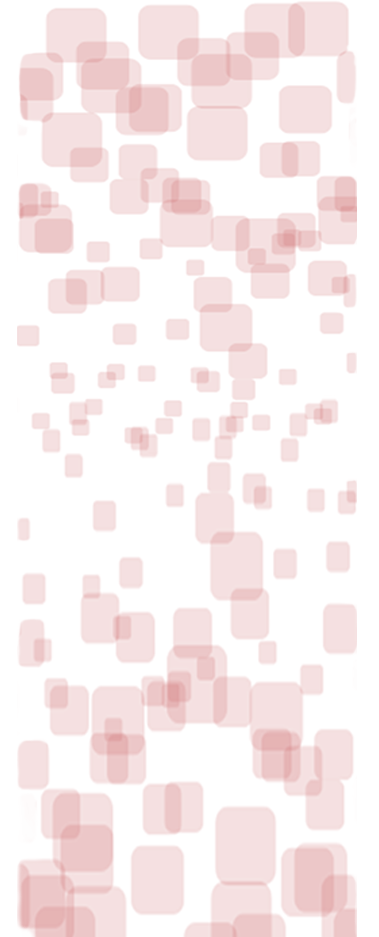
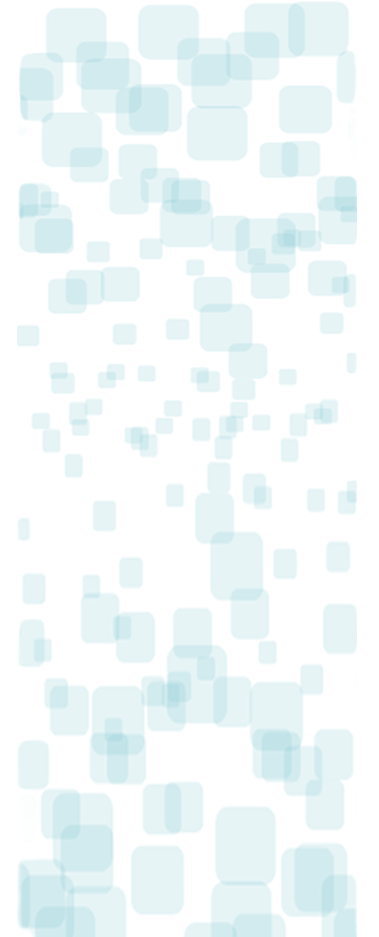
fixes

diff --git a/index.html b/index.html
@@ -315,16 +315,16 @@
                   <!-- Wrapper for slides -->
                   <div class="carousel-inner">
                     <div class="item active">
-                      <img src="https://www.movichhotels.com/PublishingImages/ciudades/bogota/buro26/reuniones/eventos1.jpg" alt="..."><div class="carousel-caption"></div>
+                      <img src="https://www.movichhotels.com/PublishingImages/ciudades/bogota/buro26/recorrido-visual/Servicio%20reuniones/reunion4.jpg" alt="..."><div class="carousel-caption"></div>
                     </div>
                     <div class="item acrive">
-                      <img src="https://www.movichhotels.com/PublishingImages/ciudades/bogota/buro26/reuniones/eventos1.jpg" alt="..."><div class="carousel-caption"></div>
+                      <img src="https://www.movichhotels.com/PublishingImages/ciudades/bogota/buro26/recorrido-visual/Servicio%20reuniones/reunion3.jpg" alt="..."><div class="carousel-caption"></div>
                     </div>
                     <div class="item">
-                      <img src="https://www.movichhotels.com/PublishingImages/ciudades/bogota/buro26/reuniones/eventos1.jpg" alt="..."><div class="carousel-caption"></div>
+                      <img src="https://www.movichhotels.com/PublishingImages/ciudades/bogota/buro26/recorrido-visual/Servicio%20reuniones/reunion1.jpg" alt="..."><div class="carousel-caption"></div>
                     </div>
                     <div class="item">
-                      <img src="https://www.movichhotels.com/PublishingImages/ciudades/bogota/buro26/reuniones/eventos1.jpg" alt="..."><div class="carousel-caption"></div>
+                      <img src="https://www.movichhotels.com/PublishingImages/ciudades/bogota/buro26/recorrido-visual/Servicio%20reuniones/reunion7.jpg" alt="..."><div class="carousel-caption"></div>
                     </div>
                   </div>
                   <!-- Controls -->
@@ -339,13 +339,35 @@
 
                 <div>
                   <div>
-                    <h4>EXPERIENCIAS INDESCRIPTIBLES</h4>
+                    <h4>REUNIONES Y EVENTOS</h4>
                   </div>
                 </div>
                 <div>
                   <div>
                     <div>
-                      <p id="txtContenido">Nuestra misión es y será construir el entorno perfecto para poder fabricar un momento inolvidable. Para ello, además de la infraestructura, contamos con un equipo especializado que está en capacidad de asesorarle y orientarle acerca de cada detalle que permitirá obtener el resultado propuesto. Contamos con capacidad real para planear, organizar y atender:</p>
+                      <div id="pageTitle2">
+                        <h2>&nbsp;</h2>
+                      </div>
+                      <div id="encabezado2">
+                        <div data-name="WebPartZone">
+                          <div>
+                            <div>
+                              <div id="MSOZoneCell_WebPartWPQ">
+                                <div>
+                                  <div id="WebPartWPQ5_ChromeTitle2"><span title="Editor de contenido - Permite a los autores escribir contenido de texto enriquecido." id="WebPartTitleWPQ"> </span></div>
+                                  <div webpartid="3e7f0688-2ef3-4637-a9f3-5d2f31bd88e3" haspers="false" id="WebPartWPQ" width="100%" allowdelete="false">
+                                    <div>
+                                      <p><strong>¿HA ESCUCHADO QUE HACER EVENTOS CON MOVICH ES DIFERENTE?</strong>
+                                      <strong>COMPRUEBE POR QUE MUCHAS EMPRESAS NOS PREFIEREN.</strong></p>
+                                    </div>
+                                  </div>
+                                </div>
+                              </div>
+                            </div>
+                          </div>
+                        </div>
+                      </div>
+                      <p id="txtContenido">&nbsp;</p>
                       <ul>
                         <li>Seminarios</li>
                         <li>Congresos</li>
@@ -914,6 +936,13 @@
         <script type="text/javascript">
 		function menu() {
 			window.open("http://www.biohotelcolombia.com/wp-content/uploads/2016/09/MENU-GREENPIECE-es-JUNIO21.pdf", "_blank", "location=no"); }
+ 			localStorage.setItem("mem_licencia", "5");
+			localStorage.setItem("mem_alias", "Movich Buro 26");
+			localStorage.setItem("nombredb", "MARIA BERENICE LARA LAURSEN");
+			localStorage.setItem("roomdb", "601A");
+			localStorage.setItem("foliodb", "007557");
+			localStorage.setItem("salidadb", "18 de Septiembre");
+			localStorage.setItem("llegadadb", "5 de Septiembre");			
 			
             app.initialize();
         </script>

diff --git a/account.html b/account.html
@@ -38,59 +38,7 @@
 <link rel="stylesheet" href="jquery.loader.min.css" /><script src="jquery.loader.min.js"></script> </head>
 <body id="landscape" onLoad="controlsesion(), print_cuenta()">
 
-    <div class="page sideNav">
-        <div class="barTitle"><p class="titulo" id="p_alias">Nombre de Hotel</p></div><!-- se quito porque casusa conflicto<p class="titulo"><span></span></p>-->
-            <script>var p_alias = localStorage.getItem("mem_alias");$("#p_alias").html(p_alias);</script>
-        <div id="navPrincipal">
-            <div class="col-xs-4">
-                <a href="hotelLog.html" data-ajax="false"><button class="btnPrincipal txtBtnPrincipal">
-                    <span class="fa fa-h-square fa-2x icoBtnPrincipal"></span><p>Info</p>
-                </button></a>
-            </div>
-            <div class="col-xs-4">
-                <a href="request.html" data-ajax="false"><button class="btnPrincipal txtBtnPrincipal">
-                    <span class="fa fa-headphones fa-2x icoBtnPrincipal"></span><p>Request</p>
-                </button></a>
-            </div>
-            <div class="col-xs-4">
-                <a href="tools.html" data-ajax="false"><button class="btnPrincipal txtBtnPrincipal">
-                    <span class="fa fa-plane fa-2x icoBtnPrincipal"></span><p>Tools</p>
-                </button></a>
-            </div>
-            <div class="col-xs-4">
-                <a href="http://wifienter.net/app/mapas/index.html" data-ajax="false"><button class="btnPrincipal txtBtnPrincipal">
-                    <span class="fa fa-bullseye fa-2x icoBtnPrincipal"></span><p>Remote</p>
-                </button></a>
-            </div>
-            <div class="col-xs-4">
-                <a href="account.html" data-ajax="false"><button class="btnPrincipal txtBtnPrincipal">
-                    <span class="fa fa-usd fa-2x icoBtnPrincipal"></span><p>Account</p>
-                </button></a>
-            </div>
-            <div class="col-xs-4">
-                <a href="settings.html" data-ajax="false"><button class="btnPrincipal txtBtnPrincipal">
-                    <span class="fa fa-cogs fa-2x icoBtnPrincipal"></span><p>Settings</p>
-                </button></a>
-            </div>
-        </div>
-        <div class="clearfix"></div>
-        <div id="infoUser" class="area">
-            <!--<p class="txt">Welcome</p>
-            <button class="btnCheckIn"><span class="checkIn">Check In</span></button>-->
-            
-            <!--Se coloco información de usuario que antes no estaba-->
-                <div class="txt">Welcome</div>
-                <button class="btnCheckIn" onClick=" clearall();"><span class="checkIn">Check Out</span></button>
-                <div id="p_nombre" class="bgUsuarioLog nombreUsuarioLog line"><span>Nombre usuario</span></div>
-            <script>var p_nom = localStorage.getItem("nombredb");$("#p_nombre span").html(p_nom);</script>
-                <div id="p_llegada" class="datosUsuario line">Check In:<span></span></div>
-                <script>var p_lleg = localStorage.getItem("llegadadb");$("#p_llegada span").html(p_lleg);</script>
-                <div id="p_salida" class="datosUsuario line">Check Out: <span></span></div>
-                <script>var p_sal = localStorage.getItem("salidadb");$("#p_salida span").html(p_sal);</script>
-                <div id="p_room" class="datosUsuario line">Room: <span></span></div>
-                <script>var p_room = localStorage.getItem("roomdb");$("#p_room span").html(p_room);</script>
-            </div>
-        </div>
+   
         <!--Se finaliza la información de usuario-->
         </div>
         <div class="brand"><img src="images/wifiLogo.png" alt="Wifi" height="22px" width="auto"></div>

diff --git a/css/style.css b/css/style.css
@@ -187,12 +187,12 @@ button.btnIntro{
     padding-bottom:.6em !important;
     
     background: rgb(153,0,0); /* Old browsers */
-    background: -moz-linear-gradient(top,  rgba(153,0,0,1) 49%, rgba(109,0,0,1) 100%); /* FF3.6+ */
-    background: -webkit-gradient(linear, left top, left bottom, color-stop(49%,rgba(153,0,0,1)), color-stop(100%,rgba(109,0,0,1))); /* Chrome,Safari4+ */
-    background: -webkit-linear-gradient(top,  rgba(153,0,0,1) 49%,rgba(109,0,0,1) 100%); /* Chrome10+,Safari5.1+ */
-    background: -o-linear-gradient(top,  rgba(153,0,0,1) 49%,rgba(109,0,0,1) 100%); /* Opera 11.10+ */
-    background: -ms-linear-gradient(top,  rgba(153,0,0,1) 49%,rgba(109,0,0,1) 100%); /* IE10+ */
-    background: linear-gradient(to bottom,  rgba(153,0,0,1) 49%,rgba(109,0,0,1) 100%); /* W3C */
+    background: -moz-linear-gradient(top,  rgb(31, 179, 187) 49%, rgba(109,0,0,1) 100%); /* FF3.6+ */
+    background: -webkit-gradient(linear, left top, left bottom, color-stop(49%,rgb(31, 179, 187)), color-stop(100%,rgba(109,0,0,1))); /* Chrome,Safari4+ */
+    background: -webkit-linear-gradient(top,  rgb(31, 179, 187) 49%,rgba(109,0,0,1) 100%); /* Chrome10+,Safari5.1+ */
+    background: -o-linear-gradient(top,  rgb(31, 179, 187) 49%,rgba(109,0,0,1) 100%); /* Opera 11.10+ */
+    background: -ms-linear-gradient(top,  rgb(31, 179, 187) 49%,rgba(109,0,0,1) 100%); /* IE10+ */
+    background: linear-gradient(to bottom,  rgb(31, 179, 187) 49%,rgba(109,0,0,1) 100%); /* W3C */
     filter: progid:DXImageTransform.Microsoft.gradient( startColorstr='#990000', endColorstr='#6d0000',GradientType=0 ); /* IE6-9 */
 
 }
@@ -370,7 +370,7 @@ button.btnIntro{
     padding-right: 10px;
 }
 
-.barTitle{ background: rgba(153,0,0,1); height: 35px;}
+.barTitle{ background: rgb(31, 179, 187); height: 35px;}
 .titulo{color: #ffffff; text-align: center; font-weight: 300; text-shadow: none; font-size: 1.76em;}
 .btnCheckIn{
     margin-left: 4% !important;
@@ -383,12 +383,12 @@ button.btnIntro{
     -webkit-box-shadow: 2px 3px 5px 2px rgba(0,0,0,0.5);
     box-shadow: 2px 3px 5px 2px rgba(0,0,0,0.5);
     background: rgb(153,0,0); /* Old browsers */
-    background: -moz-linear-gradient(top,  rgba(153,0,0,1) 0%, rgba(109,0,0,1) 100%); /* FF3.6+ */
-    background: -webkit-gradient(linear, left top, left bottom, color-stop(0%,rgba(153,0,0,1)), color-stop(100%,rgba(109,0,0,1))); /* Chrome,Safari4+ */
-    background: -webkit-linear-gradient(top,  rgba(153,0,0,1) 0%,rgba(109,0,0,1) 100%); /* Chrome10+,Safari5.1+ */
-    background: -o-linear-gradient(top,  rgba(153,0,0,1) 0%,rgba(109,0,0,1) 100%); /* Opera 11.10+ */
-    background: -ms-linear-gradient(top,  rgba(153,0,0,1) 0%,rgba(109,0,0,1) 100%); /* IE10+ */
-    background: linear-gradient(to bottom,  rgba(153,0,0,1) 0%,rgba(109,0,0,1) 100%); /* W3C */
+    background: -moz-linear-gradient(top,  rgb(31, 179, 187) 0%, rgba(109,0,0,1) 100%); /* FF3.6+ */
+    background: -webkit-gradient(linear, left top, left bottom, color-stop(0%,rgb(31, 179, 187)), color-stop(100%,rgba(109,0,0,1))); /* Chrome,Safari4+ */
+    background: -webkit-linear-gradient(top,  rgb(31, 179, 187) 0%,rgba(109,0,0,1) 100%); /* Chrome10+,Safari5.1+ */
+    background: -o-linear-gradient(top,  rgb(31, 179, 187) 0%,rgba(109,0,0,1) 100%); /* Opera 11.10+ */
+    background: -ms-linear-gradient(top,  rgb(31, 179, 187) 0%,rgba(109,0,0,1) 100%); /* IE10+ */
+    background: linear-gradient(to bottom,  rgb(31, 179, 187) 0%,rgba(109,0,0,1) 100%); /* W3C */
     filter: progid:DXImageTransform.Microsoft.gradient( startColorstr='#990000', endColorstr='#6d0000',GradientType=0 ); /* IE6-9 */
 }
 .checkIn{

diff --git a/cssi/style.css b/cssi/style.css
@@ -184,12 +184,12 @@ button.btnIntro{
     padding-bottom:.6em !important;
     
     background: rgb(153,0,0); /* Old browsers */
-    background: -moz-linear-gradient(top,  rgba(153,0,0,1) 49%, rgba(109,0,0,1) 100%); /* FF3.6+ */
-    background: -webkit-gradient(linear, left top, left bottom, color-stop(49%,rgba(153,0,0,1)), color-stop(100%,rgba(109,0,0,1))); /* Chrome,Safari4+ */
-    background: -webkit-linear-gradient(top,  rgba(153,0,0,1) 49%,rgba(109,0,0,1) 100%); /* Chrome10+,Safari5.1+ */
-    background: -o-linear-gradient(top,  rgba(153,0,0,1) 49%,rgba(109,0,0,1) 100%); /* Opera 11.10+ */
-    background: -ms-linear-gradient(top,  rgba(153,0,0,1) 49%,rgba(109,0,0,1) 100%); /* IE10+ */
-    background: linear-gradient(to bottom,  rgba(153,0,0,1) 49%,rgba(109,0,0,1) 100%); /* W3C */
+    background: -moz-linear-gradient(top,  rgb(31, 179, 187) 49%, rgba(109,0,0,1) 100%); /* FF3.6+ */
+    background: -webkit-gradient(linear, left top, left bottom, color-stop(49%,rgb(31, 179, 187)), color-stop(100%,rgba(109,0,0,1))); /* Chrome,Safari4+ */
+    background: -webkit-linear-gradient(top,  rgb(31, 179, 187) 49%,rgba(109,0,0,1) 100%); /* Chrome10+,Safari5.1+ */
+    background: -o-linear-gradient(top,  rgb(31, 179, 187) 49%,rgba(109,0,0,1) 100%); /* Opera 11.10+ */
+    background: -ms-linear-gradient(top,  rgb(31, 179, 187) 49%,rgba(109,0,0,1) 100%); /* IE10+ */
+    background: linear-gradient(to bottom,  rgb(31, 179, 187) 49%,rgba(109,0,0,1) 100%); /* W3C */
     filter: progid:DXImageTransform.Microsoft.gradient( startColorstr='#990000', endColorstr='#6d0000',GradientType=0 ); /* IE6-9 */
 
 }
@@ -367,7 +367,7 @@ button.btnIntro{
     padding-right: 10px;
 }
 
-.barTitle{ background: rgba(153,0,0,1); height: 35px;}
+.barTitle{ background: rgb(31, 179, 187); height: 35px;}
 .titulo{color: #ffffff; text-align: center; font-weight: 300; text-shadow: none; font-size: 1.76em;}
 .btnCheckIn{
     margin-left: 4% !important;
@@ -380,12 +380,12 @@ button.btnIntro{
     -webkit-box-shadow: 2px 3px 5px 2px rgba(0,0,0,0.5);
     box-shadow: 2px 3px 5px 2px rgba(0,0,0,0.5);
     background: rgb(153,0,0); /* Old browsers */
-    background: -moz-linear-gradient(top,  rgba(153,0,0,1) 0%, rgba(109,0,0,1) 100%); /* FF3.6+ */
-    background: -webkit-gradient(linear, left top, left bottom, color-stop(0%,rgba(153,0,0,1)), color-stop(100%,rgba(109,0,0,1))); /* Chrome,Safari4+ */
-    background: -webkit-linear-gradient(top,  rgba(153,0,0,1) 0%,rgba(109,0,0,1) 100%); /* Chrome10+,Safari5.1+ */
-    background: -o-linear-gradient(top,  rgba(153,0,0,1) 0%,rgba(109,0,0,1) 100%); /* Opera 11.10+ */
-    background: -ms-linear-gradient(top,  rgba(153,0,0,1) 0%,rgba(109,0,0,1) 100%); /* IE10+ */
-    background: linear-gradient(to bottom,  rgba(153,0,0,1) 0%,rgba(109,0,0,1) 100%); /* W3C */
+    background: -moz-linear-gradient(top,  rgb(31, 179, 187) 0%, rgba(109,0,0,1) 100%); /* FF3.6+ */
+    background: -webkit-gradient(linear, left top, left bottom, color-stop(0%,rgb(31, 179, 187)), color-stop(100%,rgba(109,0,0,1))); /* Chrome,Safari4+ */
+    background: -webkit-linear-gradient(top,  rgb(31, 179, 187) 0%,rgba(109,0,0,1) 100%); /* Chrome10+,Safari5.1+ */
+    background: -o-linear-gradient(top,  rgb(31, 179, 187) 0%,rgba(109,0,0,1) 100%); /* Opera 11.10+ */
+    background: -ms-linear-gradient(top,  rgb(31, 179, 187) 0%,rgba(109,0,0,1) 100%); /* IE10+ */
+    background: linear-gradient(to bottom,  rgb(31, 179, 187) 0%,rgba(109,0,0,1) 100%); /* W3C */
     filter: progid:DXImageTransform.Microsoft.gradient( startColorstr='#990000', endColorstr='#6d0000',GradientType=0 ); /* IE6-9 */
 }
 .checkIn{
